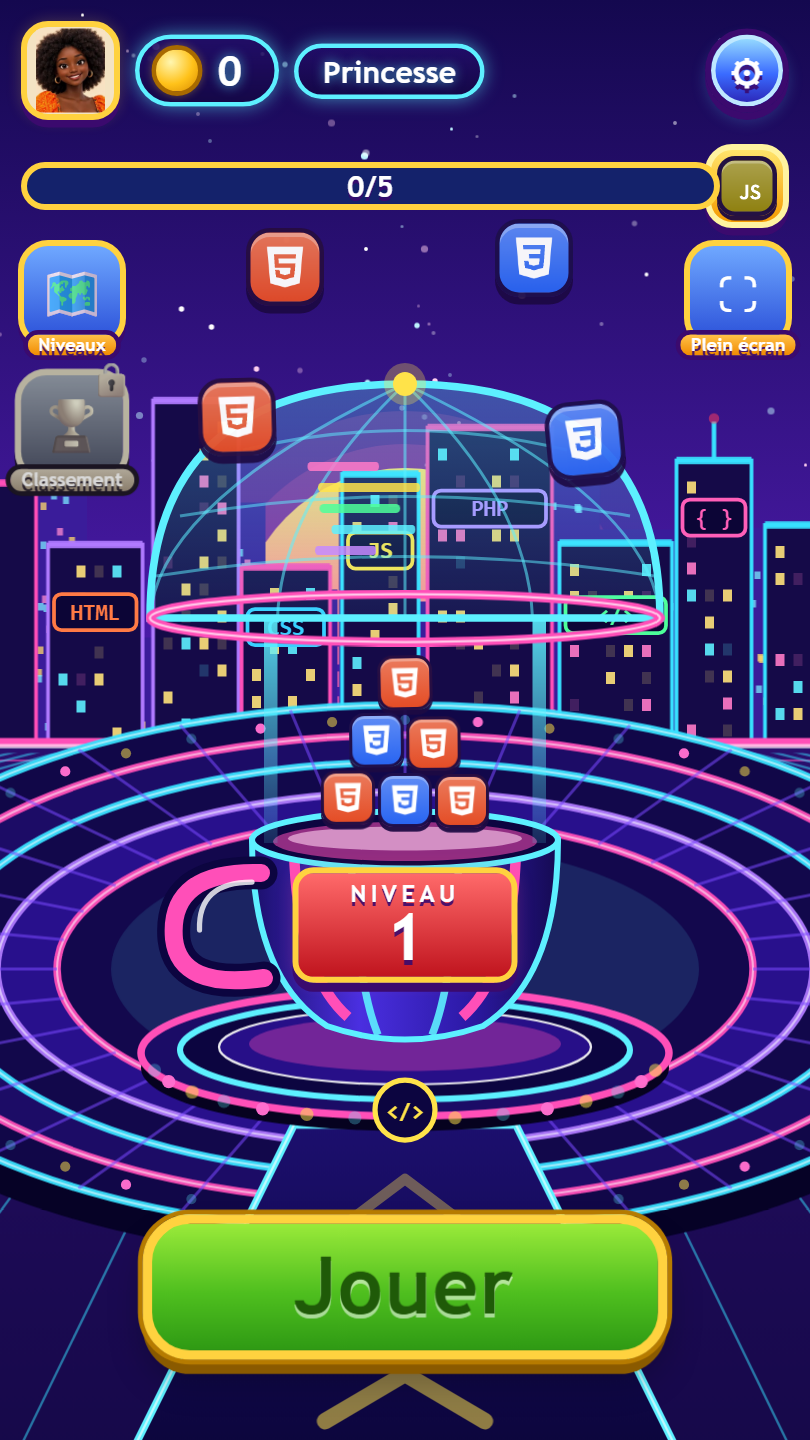
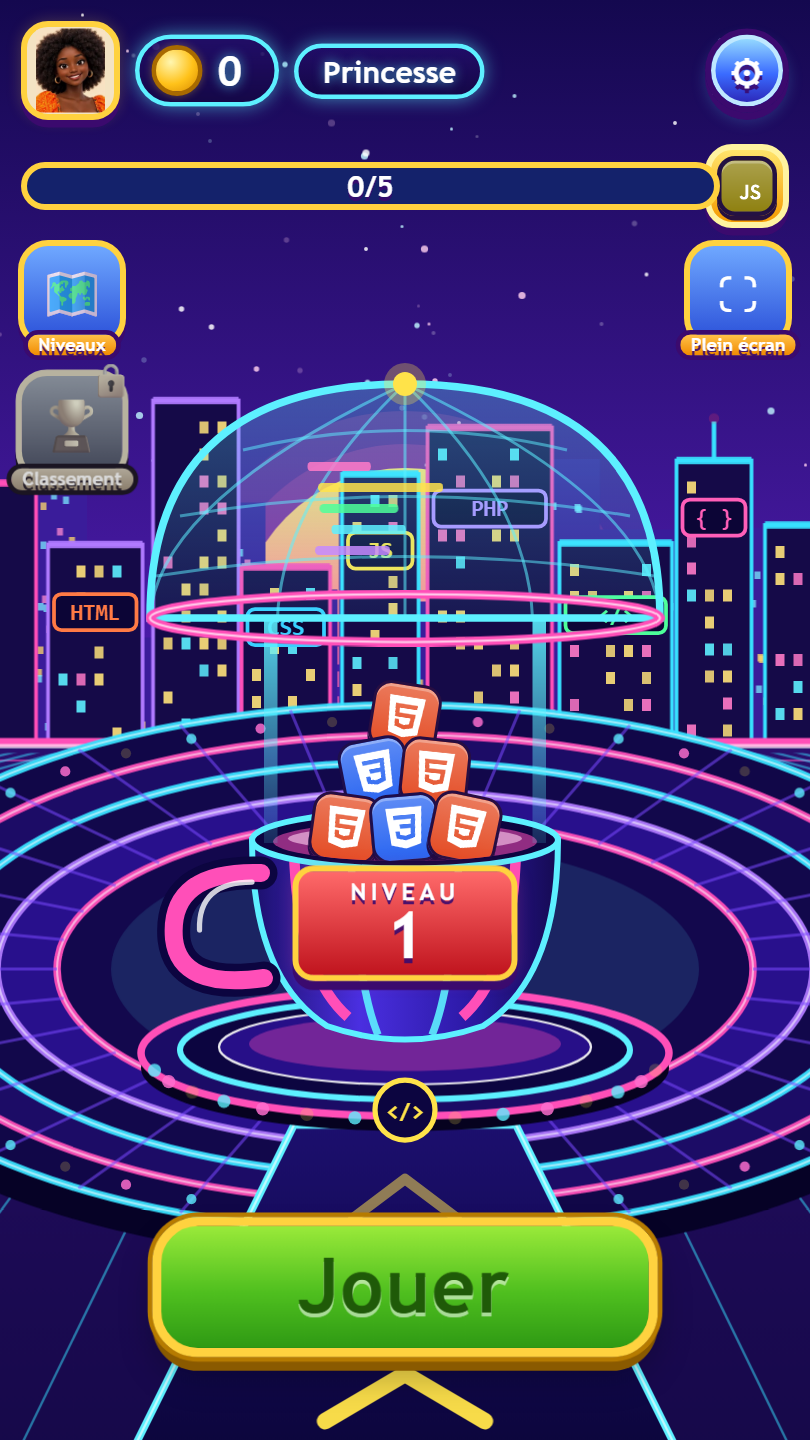
accueil: les cubes sont poses dans la tasse (caches par le bord avant), plus rien ne flotte

diff --git a/public/css/home2.css b/public/css/home2.css
@@ -151,3 +151,12 @@ html[data-home='cyber'] .topbar .pill b, html[data-home='cyber'] .topbar .pill s
 .home-svg .hl { animation: hl-grow 3.2s ease-in-out infinite; transform-box: fill-box; transform-origin: left center; } .home-svg .hl.h1 { animation-delay: -1s; } .home-svg .hl.h2 { animation-delay: -2s; }
 @keyframes hl-grow { 50% { transform: scaleX(.6); } }
 @media (prefers-reduced-motion: reduce) { .home-svg .tw, .home-svg .win, .home-svg .flick, .home-svg .chev, .home-svg .hl { animation: none; } }
+
+/* les cubes sont posés DANS la tasse (cachés par le bord avant du verre), rien ne flotte dans l'air */
+.podium .mini-stack { left: 50px; right: auto; width: 200px; top: 20px; bottom: auto; height: 175px; justify-content: flex-end; clip-path: path('M0 0 H200 V161 H188 A88 13 0 0 1 12 161 H0 Z'); }
+.podium .mc { width: 46px; height: 46px; padding: 7px; margin: 0 -3px; border-radius: 12px; animation: none; transform: rotate(var(--rot, 0deg)); box-shadow: 0 3px 0 rgba(28, 10, 66, .95), inset 0 2px 0 rgba(255, 255, 255, .3); }
+.podium .mini-stack .mr { margin-top: -9px; }
+.podium .mini-stack .mr:nth-child(1) .mc { --rot: 9deg; }
+.podium .mini-stack .mr:nth-child(2) .mc:nth-child(1) { --rot: -11deg; } .podium .mini-stack .mr:nth-child(2) .mc:nth-child(2) { --rot: 6deg; }
+.podium .mini-stack .mr:nth-child(3) .mc:nth-child(1) { --rot: 8deg; } .podium .mini-stack .mr:nth-child(3) .mc:nth-child(2) { --rot: -5deg; } .podium .mini-stack .mr:nth-child(3) .mc:nth-child(3) { --rot: 12deg; }
+.floaters { display: none; }

diff --git a/public/js/ui.js b/public/js/ui.js
@@ -160,8 +160,6 @@
     const pick = (i) => techByKey(pool[i % pool.length]);
     const cube = (cls, t, style) => { const col = Game.techColors(t.key); return `<div class="${cls}" style="--c1:${col.c1};--c2:${col.c2};${style}"><img src="${Game.whiteURL(t.key)}" alt=""></div>`; };
     $('mini-stack').innerHTML = [1, 2, 3].map((n, r) => `<div class="mr">${Array.from({ length: n }, (_, c) => cube('mc', pick(r * 3 + c), `--d:${(r + c) * 0.25}s`)).join('')}</div>`).join('');
-    const spots = [[52, 120], [284, 128], [84, 12], [250, 6]];
-    $('floaters').innerHTML = spots.map(([x, y], i) => cube('fl', pick(i + 2), `left:${x}px;top:${y}px;--d:${i * 0.7}s`)).join('');
     // progression des 10 niveaux en cours + niveau de difficulté du bouton Jouer
     const B = blockSize(), done = (next - 1) % B, end = Math.ceil(next / B) * B;
     const rewardKey = meta.levels[end - 1] && meta.levels[end - 1].reward, rt = rewardKey && techByKey(rewardKey);

diff --git a/public/index.html b/public/index.html
@@ -185,7 +185,6 @@
         <button class="side-btn" id="btn-full-home"><span class="ico">⛶</span><em>Plein écran</em></button>
       </aside>
       <div class="home-center">
-        <div class="floaters" id="floaters"></div>
         <div class="podium">
           <div class="mini-stack" id="mini-stack"></div>
           <div class="plate"><small>NIVEAU</small><b id="home-level">1</b></div>
